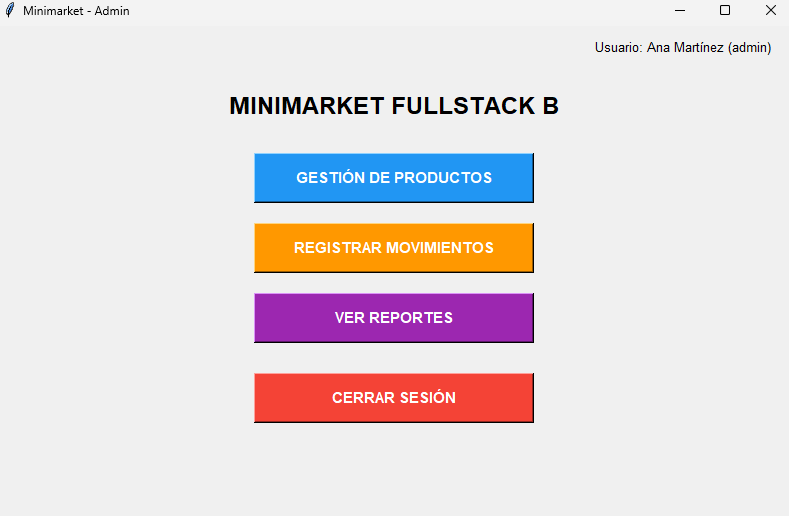
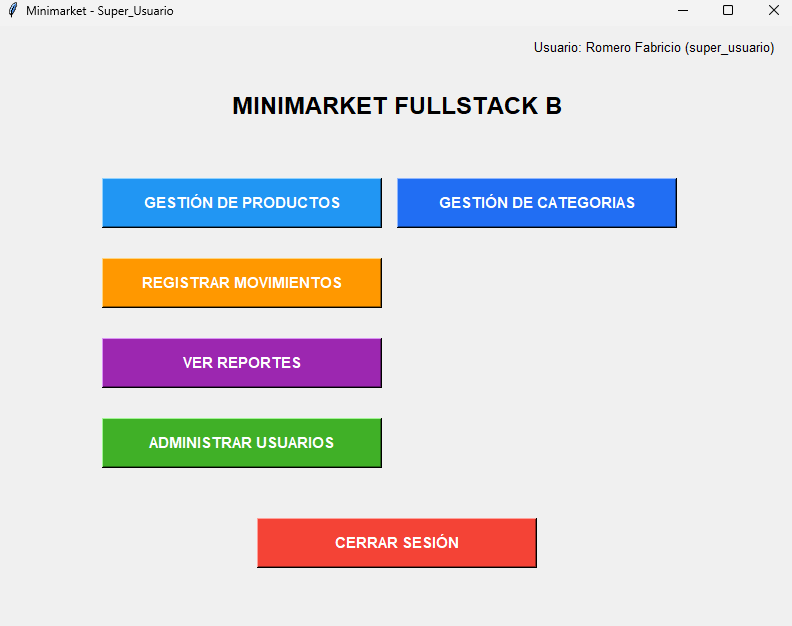
Add files via upload

diff --git a/Minimarket_FullStack_B_App/Readme.md b/Minimarket_FullStack_B_App/Readme.md
@@ -122,6 +122,10 @@ Haga doble click en el archivo main.exe
 
 ![Productos](Capturas/Pantalla_Productos.png)
 
+**Categorias**
+
+![Categorias](Capturas/Pantalla_Categorias.png)
+
 **Movimientos**
 
 ![Movimientos](Capturas/Pantalla_Movimientos.png)
